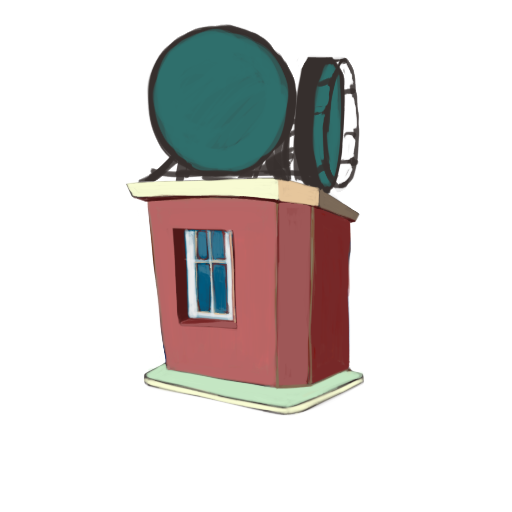
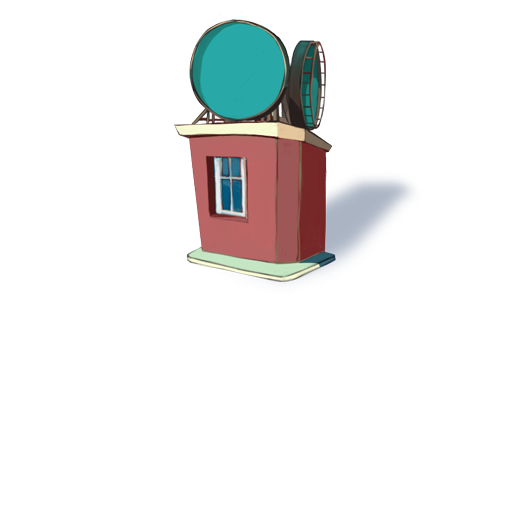
Integrated new trade post assets (anchored at center of png)
* also added HACK to enter the game when flyer creation fails; Aaron
will remove it when server integration with Flyer is done

Changed region(s): [[0.25, 0.0312, 0.8125, 0.8125]]

diff --git a/traderpog/Game/Map/TradePostAnnotationView.m b/traderpog/Game/Map/TradePostAnnotationView.m
@@ -30,12 +30,12 @@ NSString* const kTradePostAnnotationViewReuseId = @"PostAnnotationView";
         
         // set size of view
         CGRect myFrame = self.frame;
-        myFrame.size = CGSizeMake(80.0f, 80.0f);
+        myFrame.size = CGSizeMake(120.0f, 120.0f);
         self.frame = myFrame;
         
         // setup tradepost image
         UIImage *annotationImage = [UIImage imageNamed:@"HomeBase.png"];
-        CGRect resizeRect = CGRectMake(0.0f, 0.0f, 80.0f, 80.0f);
+        CGRect resizeRect = CGRectMake(0.0f, 0.0f, 120.0f, 120.0f);
         UIGraphicsBeginImageContext(resizeRect.size);
         [annotationImage drawInRect:resizeRect];
         UIImage *resizedImage = UIGraphicsGetImageFromCurrentImageContext();
@@ -47,7 +47,7 @@ NSString* const kTradePostAnnotationViewReuseId = @"PostAnnotationView";
         UIView* contentView = [[UIView alloc] initWithFrame:myFrame];
         UIImageView* imageView = [[UIImageView alloc] initWithImage:resizedImage];
         [imageView setFrame:CGRectMake(myFrame.origin.x, 
-                                       myFrame.origin.y-(resizeRect.size.height/4.0f), 
+                                       myFrame.origin.y, 
                                        resizeRect.size.width, resizeRect.size.height)];
         [contentView addSubview:imageView];
         

diff --git a/traderpog/Game/Sim/FlyerMgr.m b/traderpog/Game/Sim/FlyerMgr.m
@@ -40,10 +40,15 @@
         [newFlyer setDelegate:[FlyerMgr getInstance]];
         _tempFlyer = newFlyer;
         [_tempFlyer createNewUserFlyerOnServer];
-        return TRUE;
     }
     
-    return FALSE;
+    BOOL result = NO;
+    if(_tempFlyer)
+    {
+        result = YES;
+    }
+    
+    return result;
 }
 
 - (void) setTempFlyerToActive
@@ -90,7 +95,10 @@
 #pragma mark - HttpCallbackDelegate
 - (void) didCompleteHttpCallback:(NSString*)callName, BOOL success
 {
-    if (success)
+    // HACK
+    // TODO: re-enable this if(success) check when integration with server is done
+    //if (success)
+    // HACK
     {
         [self setTempFlyerToActive];
     }
